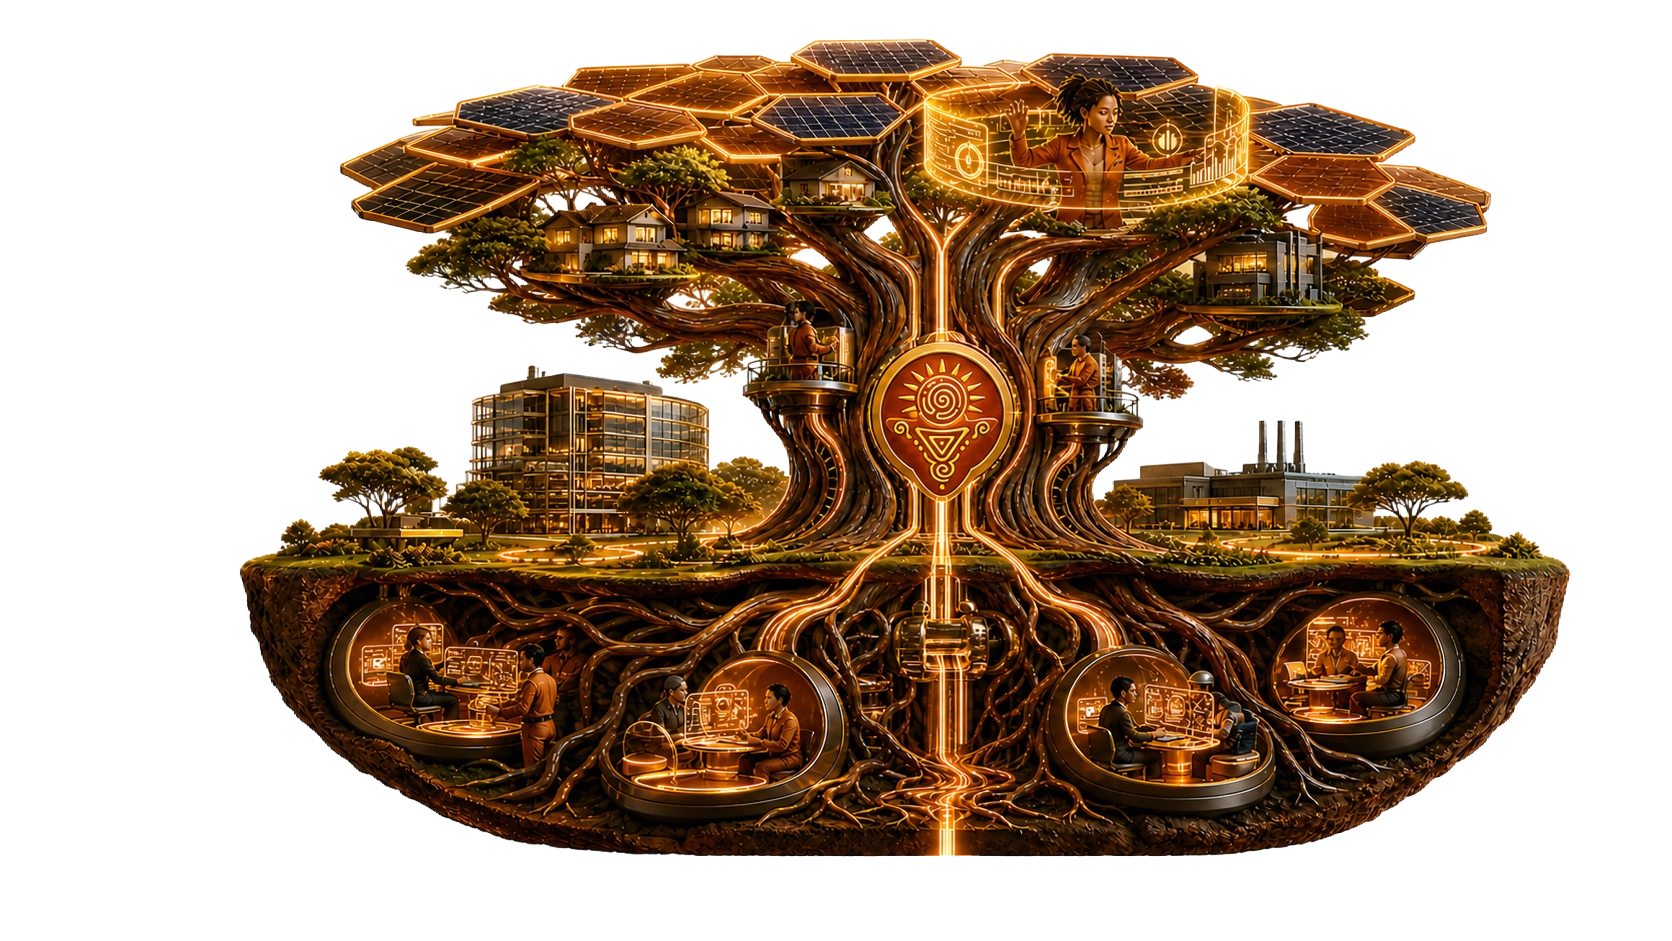
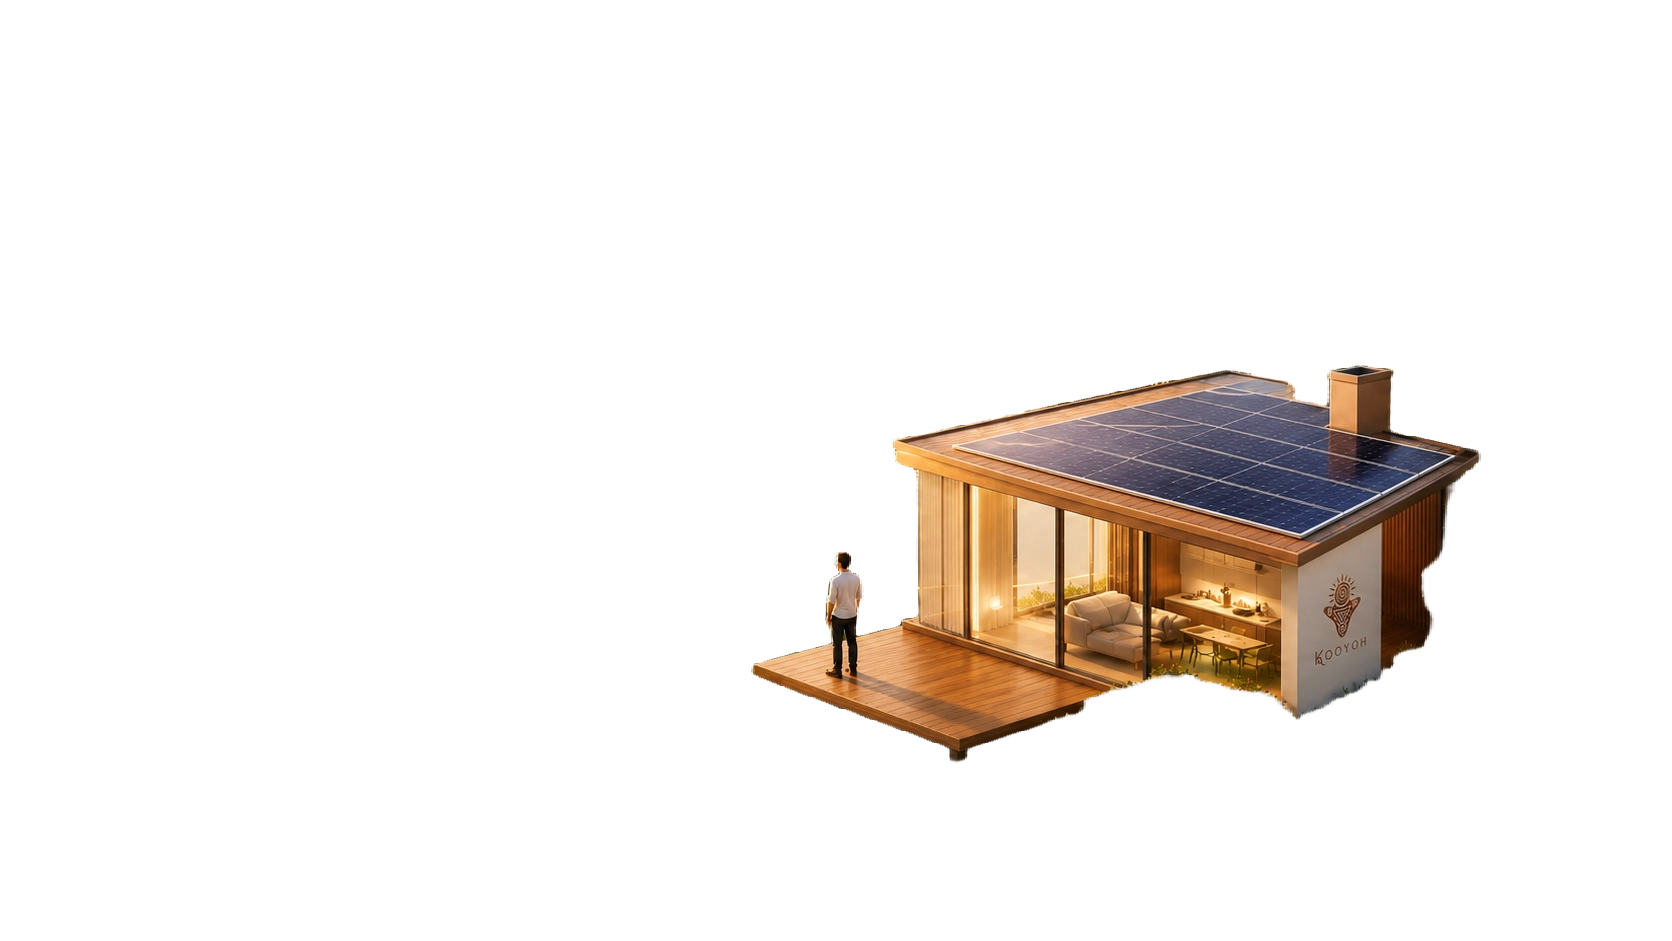
refine: landing hero CTA alignment and illustration position
Replace hero primary CTA with single all-caps word, match button height
to the address field, and shift/size the hero image slightly for depth.
Update hero illustration asset.

diff --git a/lib/features/light/landing/landing_page.dart b/lib/features/light/landing/landing_page.dart
@@ -403,12 +403,15 @@ class _HeroSection extends StatelessWidget {
           Expanded(
             flex: 45,
             child: Center(
-              child: SizedBox(
-                width: 480,
-                height: 400,
-                child: Image.asset(
-                  'assets/images/hero_illustration.png',
-                  fit: BoxFit.contain,
+              child: Transform.translate(
+                offset: const Offset(0, -20),
+                child: SizedBox(
+                  width: 500,
+                  height: 420,
+                  child: Image.asset(
+                    'assets/images/hero_illustration.png',
+                    fit: BoxFit.contain,
+                  ),
                 ),
               ),
             ),
@@ -565,7 +568,7 @@ class _AddressInputRow extends StatelessWidget {
 
     if (isWide) {
       return Row(
-        crossAxisAlignment: CrossAxisAlignment.end,
+        crossAxisAlignment: CrossAxisAlignment.start,
         children: [
           Expanded(
             child: Column(
@@ -590,20 +593,23 @@ class _AddressInputRow extends StatelessWidget {
             ),
           ),
           const SizedBox(width: KooyohSpacing.sm),
-          SizedBox(
-            height: KooyohSpacing.buttonHeight,
-            child: ElevatedButton(
-              onPressed: onGetStarted,
-              style: ElevatedButton.styleFrom(
-                backgroundColor: KooyohColors.accent,
-                foregroundColor: Colors.white,
-                elevation: 0,
-                shape: const StadiumBorder(),
-                padding: const EdgeInsets.symmetric(horizontal: 28),
-              ),
-              child: Text(
-                LandingContent.heroPrimaryCta,
-                style: KooyohTextStyles.bodyBold(color: Colors.white),
+          Padding(
+            padding: const EdgeInsets.only(top: 24),
+            child: SizedBox(
+              height: KooyohSpacing.inputHeight,
+              child: ElevatedButton(
+                onPressed: onGetStarted,
+                style: ElevatedButton.styleFrom(
+                  backgroundColor: KooyohColors.accent,
+                  foregroundColor: Colors.white,
+                  elevation: 0,
+                  shape: const StadiumBorder(),
+                  padding: const EdgeInsets.symmetric(horizontal: 30),
+                ),
+                child: Text(
+                  LandingContent.heroPrimaryCta,
+                  style: KooyohTextStyles.bodyBold(color: Colors.white),
+                ),
               ),
             ),
           ),

diff --git a/lib/core/content/landing.dart b/lib/core/content/landing.dart
@@ -36,7 +36,7 @@ class LandingContent {
       'plan. No sales call. No pressure. No catch.';
   static const heroAddressLabel = 'ADDRESS';
   static const heroAddressPlaceholder = 'Enter your home address';
-  static const heroPrimaryCta = 'See My Design';
+  static const heroPrimaryCta = 'DESIGN';
   static const heroTrustLine = 'Free forever · No credit card';
   static const heroStatLabel = 'Systems designed this month';
   static const heroStatValue = '2,847';
